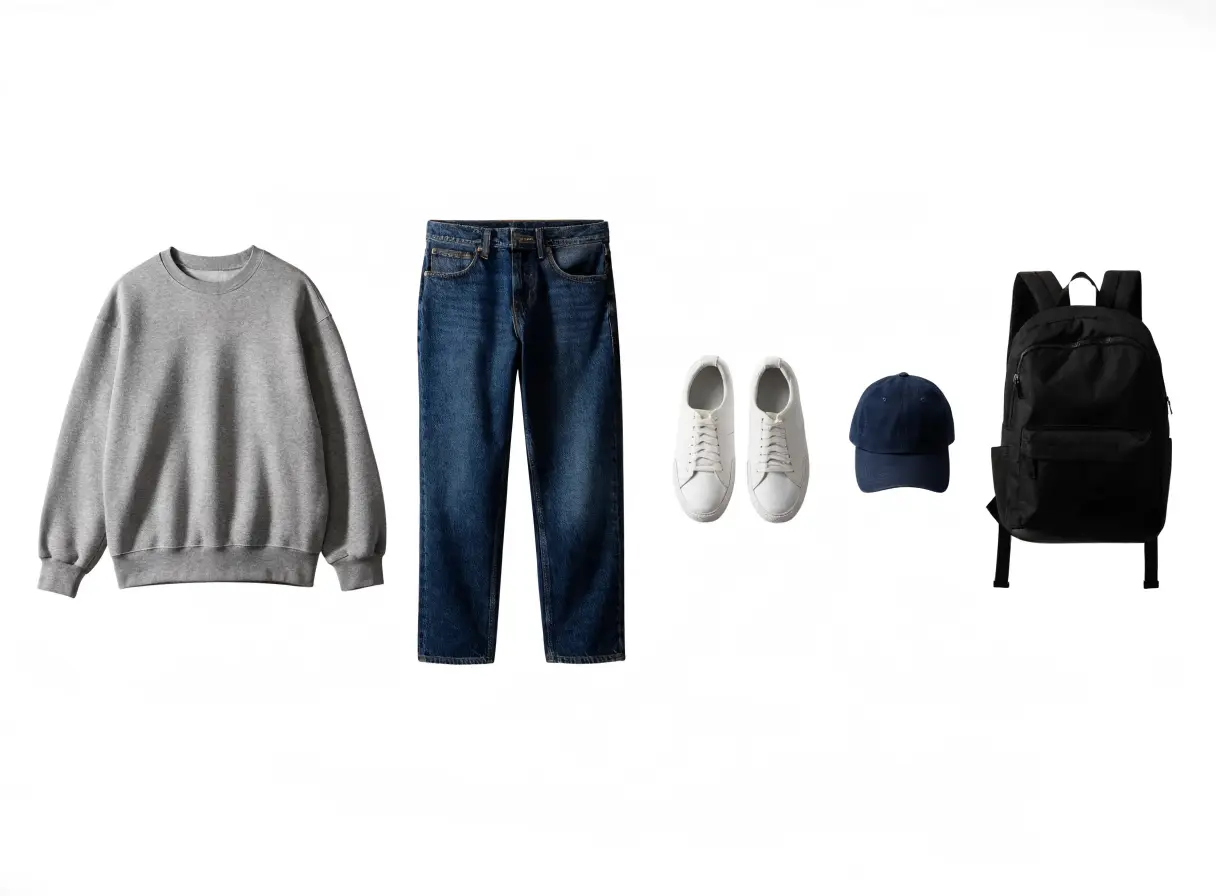
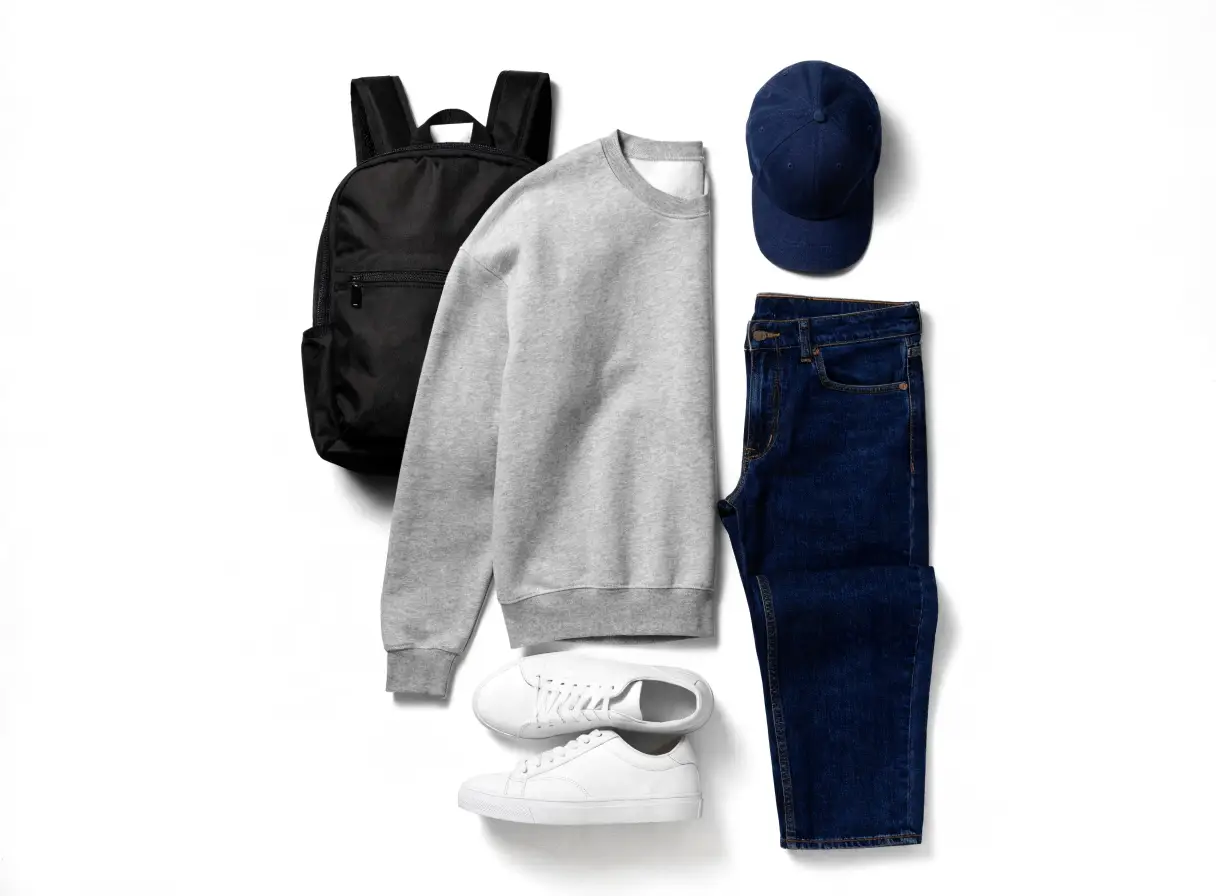
Furniture & Decor Ideas, and outfit art that fills its frame
A second styled row under Tailored Outfits: the same object for rooms instead of
people. Same card, same flat-lay treatment, same collection page behind it, four
sets drawn from the Furniture and Fine Art shelves. Unisex, so unlike the outfits
it has no gender branch. Both lists resolve through one `allStyledSets`, so an id
from either row opens and covers correctly.

The outfit art is regenerated a second time. The first landscape pass spread the
pieces in a thin band and left the top and bottom of every frame empty, which is
what made the card look mostly white. These fill both axes, with a ~6% safe
margin baked into the picture so nothing is ever cut. That margin is now the only
one: the 10px of padding I had added inside the card doubled it and is gone.

diff --git a/src/screens/FeedScreen.tsx b/src/screens/FeedScreen.tsx
@@ -17,7 +17,7 @@ import ProductCard, { MenuRow } from '../components/ProductCard';
 import { theme } from '../theme';
 import ScanScreen from './ScanScreen';
 import CollectionPage from './CollectionPage';
-import { OUTFITS, outfitMetaLine, type Outfit } from '../data/outfits';
+import { OUTFITS, DECOR_SETS, outfitMetaLine, type Outfit } from '../data/outfits';
 import { AddToCollectionFlow, CollectionFan, CreateCollectionSheet } from '../components/CollectionSheets';
 import { SEED_MEMORY_FACTS, type MemoryFact } from '../data/memory';
 import {
@@ -59,6 +59,7 @@ type Detail =
   // Two "View all"s that are not lists of products: the looks themselves, and
   // every category rather than only the ones the user picked as interests.
   | { kind: 'outfits' }
+  | { kind: 'decor' }
   | { kind: 'categories' };
 /** The four stateful dock tabs. Scan is the fourth dock item, but an overlay. */
 type Tab = 'home' | 'saved' | 'chat' | 'menu';
@@ -514,6 +515,10 @@ export default function FeedScreen({
   // The flat-lays are shot as menswear, so the section stays out of a women's
   // feed rather than offering a look that cannot be worn. Everyone else sees it.
   const feedOutfits = useMemo(() => (gender === 'female' ? [] : OUTFITS), [gender]);
+  // Decor is unisex, so unlike the outfits it is never filtered out.
+  const feedDecor = DECOR_SETS;
+  /** Both styled rows, for resolving an id back to its set. */
+  const allStyledSets = useMemo(() => [...OUTFITS, ...DECOR_SETS], []);
 
   /**
    * Idle-state chips for the catalog search: actual pieces, one per category so
@@ -846,6 +851,28 @@ export default function FeedScreen({
         <BottomDock tabs={dockTabs('home')} />
       </div>
     );
+  } else if (detail && detail.kind === 'decor') {
+    body = (
+      <div style={screenStyle}>
+        <Header title="Furniture & Decor Ideas" onBack={() => setDetail(null)} />
+        <div ref={bodyRef} style={bodyStyle}>
+          <div style={{ display: 'grid', gridTemplateColumns: '1fr 1fr', gap: 12, padding: `12px ${PAGE}px ${PAGE}px` }}>
+            {feedDecor.map((o) => (
+              <OutfitCard
+                key={o.id}
+                outfit={o}
+                meta={outfitMetaLine(o, byName)}
+                width="100%"
+                onOpen={() => setOpenCollectionId(outfitCollectionId(o.id))}
+                saved={isOutfitSaved(o.id)}
+                onToggleSave={() => toggleOutfitSaved(o)}
+              />
+            ))}
+          </div>
+        </div>
+        <BottomDock tabs={dockTabs('home')} />
+      </div>
+    );
   } else if (detail && detail.kind === 'categories') {
     // Every category in the catalog, not just the interests the feed groups by,
     // which is the only reason to tap "View all" on a list you can already see.
@@ -1130,6 +1157,28 @@ export default function FeedScreen({
               </Section>
             )}
 
+            {/* Furniture & Decor Ideas: the same styled-set card, for rooms
+                rather than people. Unisex, so it has no gender branch. */}
+            {feedDecor.length > 0 && (
+              <Section
+                title="Furniture & Decor Ideas"
+                onViewAll={() => setDetail({ kind: 'decor' })}
+              >
+                {feedDecor.map((o) => (
+                  <OutfitCard
+                    key={o.id}
+                    outfit={o}
+                    meta={outfitMetaLine(o, byName)}
+                    onOpen={() => setOpenCollectionId(outfitCollectionId(o.id))}
+                    saved={isOutfitSaved(o.id)}
+                    onToggleSave={() => toggleOutfitSaved(o)}
+                    onMoreLikeThis={moreLikeThis}
+                    onHide={() => showSnack('Noted, fewer like this', 'Got it', () => setSnack(null))}
+                  />
+                ))}
+              </Section>
+            )}
+
             {/* Categories - full-width stack when few, else a 2-row horizontal scroll */}
             {categoryGroups.length > 0 && (
               <section style={{ paddingTop: 8, paddingBottom: 8 }}>
@@ -1214,7 +1263,7 @@ export default function FeedScreen({
     // An Outfit opens the very same page a collection does. Only its card on
     // Discover looks different (the styled flat-lay); once you are inside, a
     // look is a look and the page has no reason to be a second design.
-    const outfit = OUTFITS.find((o) => outfitCollectionId(o.id) === openCollectionId);
+    const outfit = allStyledSets.find((o) => outfitCollectionId(o.id) === openCollectionId);
     if (outfit) {
       return {
         id: openCollectionId,
@@ -1227,7 +1276,7 @@ export default function FeedScreen({
       } satisfies Collection;
     }
     return null;
-  }, [openCollectionId, savedOpenCollection, outfits, byName]);
+  }, [openCollectionId, savedOpenCollection, outfits, byName, allStyledSets]);
   const openCollection = savedOpenCollection ?? previewCollection;
   const isPreviewCollection = !savedOpenCollection && !!previewCollection;
   // Snackbar geometry: above whatever occupies the bottom of the screen. The
@@ -1814,17 +1863,15 @@ function OutfitCard({
       )}
       {showMenu && <OverflowMenu onMoreLikeThis={onMoreLikeThis!} onHide={onHide!} />}
 
-      {/* 4:3, matching the art, so the rails line up. `contain` with padding
-          rather than `cover`: filling the tile edge to edge clipped the outer
-          pieces off the ends of the look, and a look with its shoes cut off is
-          not the look. The inset also gives the flat-lay air inside the card. */}
+      {/* 4:3, matching the art, so the rails line up and the look fills the
+          tile. `contain`, never `cover`: the art already carries its own safe
+          margin, so it lands flush at this ratio, and anything off-ratio is
+          letterboxed rather than having its outer pieces clipped off. */}
       <div
         style={{
           width: '100%',
           aspectRatio: '4 / 3',
           background: '#fff',
-          padding: 10,
-          boxSizing: 'border-box',
           display: 'flex',
           alignItems: 'center',
           justifyContent: 'center',

diff --git a/src/data/outfits.ts b/src/data/outfits.ts
@@ -96,6 +96,48 @@ export const OUTFITS: Outfit[] = [
   },
 ];
 
+/**
+ * Furniture & Decor Ideas: the same object as an outfit, for rooms instead of
+ * people. Same card, same flat-lay treatment, same collection page behind it -
+ * the only reason it is a separate list is that it is a separate row, and that
+ * it is unisex where the outfits are menswear.
+ */
+export const DECOR_SETS: Outfit[] = [
+  {
+    id: 'decor-reading-corner',
+    name: 'The Reading Corner',
+    description: 'A chair you sink into and somewhere to put the book down.',
+    image: '/outfits/decor-reading.webp',
+    items: ['Eames Lounge Chair', 'Noguchi Coffee Table', 'Usm Haller Shelving', 'No 5'],
+  },
+  {
+    id: 'decor-long-table',
+    name: 'The Long Table',
+    description: 'Reclaimed oak, pale chairs, and something worth sitting under.',
+    image: '/outfits/decor-dining.webp',
+    items: [
+      'Timber Reclaimed Oak Dining Table',
+      'Ch24 Wishbone Chair',
+      'Lalique Crystal Vase Lamp',
+      'Large Vase Of Flowers',
+    ],
+  },
+  {
+    id: 'decor-drawing-room',
+    name: 'The Drawing Room',
+    description: 'Deep seats, one loud armchair, and a wall that earns its place.',
+    image: '/outfits/decor-drawing.webp',
+    items: ['Chester Sofa', 'Medusa Armchair', 'Water Lilies', 'Pk22 Lounge Chair'],
+  },
+  {
+    id: 'decor-quiet-study',
+    name: 'The Quiet Study',
+    description: 'Low, plain and warm. The room you take calls in.',
+    image: '/outfits/decor-study.webp',
+    items: ['Charles Sofa', 'Egg Chair', 'Starry Night', 'Farm Table'],
+  },
+];
+
 /** "5 pieces · $12,400" - the meta line under an outfit, matching a collection's. */
 export function outfitMetaLine(
   outfit: Outfit,

diff --git a/CLAUDE.md b/CLAUDE.md
@@ -291,6 +291,15 @@ tabs share. Anything two tabs both touch belongs here, not inside a tab:
     cover image at the top of it.
   - The imagery is **menswear**, so the row is hidden when `gender === 'female'`
     rather than offering a look that cannot be worn. New imagery, new branch.
+  - **Furniture & Decor Ideas** is the same object for rooms instead of people
+    (`DECOR_SETS`, the row underneath): same card, same flat-lay treatment, same
+    collection page behind it. It is unisex, so it has no gender branch. Both
+    lists resolve through `allStyledSets`, so an id from either row opens and
+    covers correctly - add a third row there too.
+  - The flat-lays are **landscape 4:3 with their own ~6% safe margin baked in**,
+    so they land flush in a 4:3 box. Portrait art was tried and left grey gutters
+    in both the card and the cover; padding on top of the art's own margin was
+    tried and doubled it.
 - `addTarget: Product | null` - the piece the heart's sheet flow is managing.
 
 When memory is **off**, nothing may be written silently: the chat says so in its
